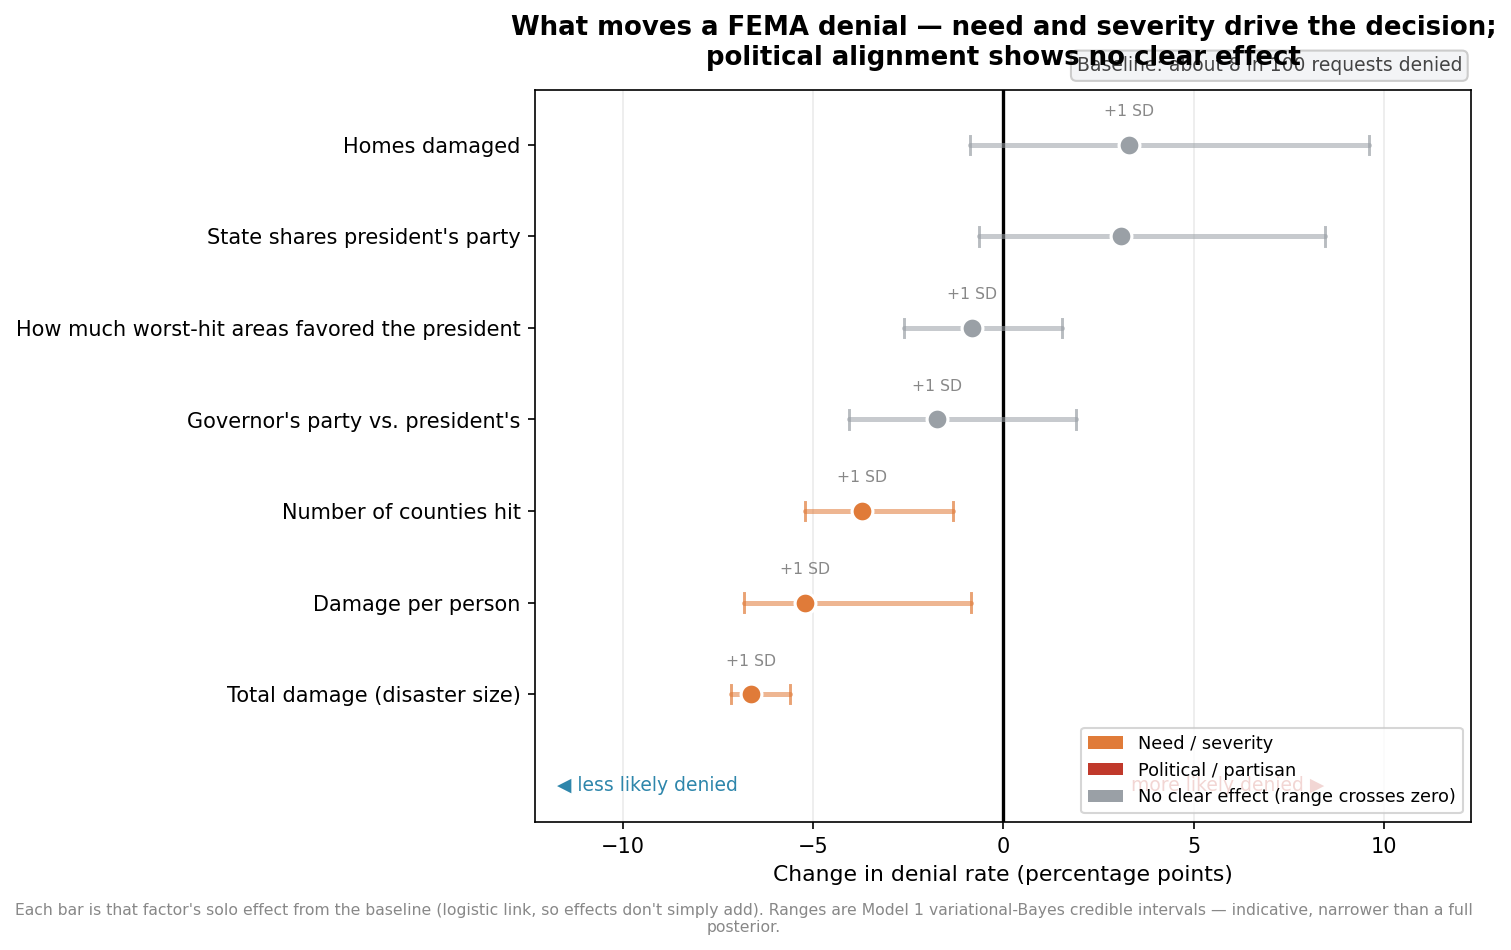
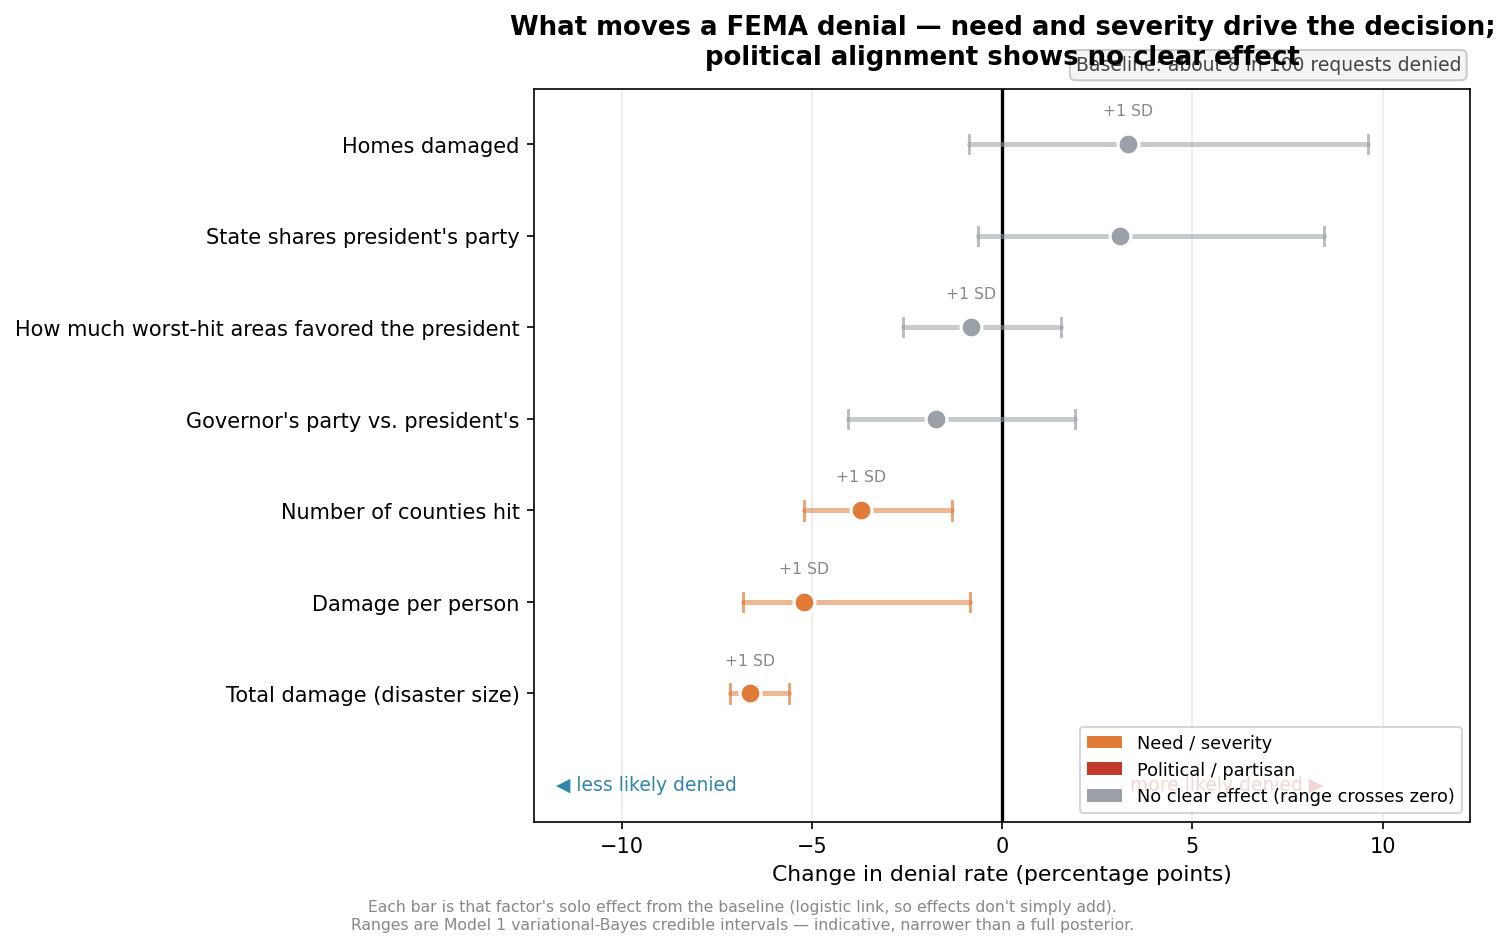
fix: correct governor_vs_president contrast label + harden empty-frame path
Final whole-branch review: governor_vs_president is a binary 0/1 flag, so its
bar is a 0->1 contrast, not +1 SD. Also make _build_m1_lay_effects return a
columned empty frame and guard plot_fig6 before sort/subplots.

diff --git a/scripts/plot_model_results.py b/scripts/plot_model_results.py
@@ -116,7 +116,7 @@ _M1_LAY_FACTORS = [
      "label": "State shares president's party", "contrast": "0→1",
      "category": "Political"},
     {"feature": "governor_vs_president",
-     "label": "Governor's party vs. president's", "contrast": "+1 SD",
+     "label": "Governor's party vs. president's", "contrast": "0→1",
      "category": "Political"},
     {"feature": "dmg_weighted_mean_pres_margin",
      "label": "How much worst-hit areas favored the president", "contrast": "+1 SD",
@@ -279,7 +279,11 @@ def _build_m1_lay_effects(vb_table):
         })
         labels.append(spec["label"])
 
-    effects_df = pd.DataFrame(rows, index=labels)
+    effects_df = pd.DataFrame(
+        rows, index=labels,
+        columns=["effect_pts", "range_low_pts", "range_high_pts",
+                 "unclear", "category", "contrast"],
+    )
     return effects_df, baseline_p
 
 
@@ -652,19 +656,16 @@ def plot_fig6_lay_effects(effects_df, baseline_p, out_dir):
     Returns:
         None. Saves fig6_lay_effects.png to out_dir.
     """
+    n = len(effects_df)
+    if n == 0:
+        print("  [fig6] no factors to plot; skipping fig6_lay_effects.png")
+        return
     # Sort ascending so the strongest "less likely denied" effects sit at the
     # bottom and the chart reads like a number line (negative left, positive
     # right).
     df = effects_df.sort_values("effect_pts", ascending=True)
-    n = len(df)
     y_pos = np.arange(n, dtype=float)
-
     fig, ax = plt.subplots(figsize=(10, max(4.5, n * 0.62 + 1.8)))
-
-    if n == 0:
-        print("  [fig6] no factors to plot; skipping fig6_lay_effects.png")
-        plt.close(fig)
-        return
 
     for y, (label, row) in zip(y_pos, df.iterrows()):
         colour = (_M1_LAY_UNCLEAR if row["unclear"]
@@ -720,6 +721,9 @@ def plot_fig6_lay_effects(effects_df, baseline_p, out_dir):
     ]
     ax.legend(handles=legend_handles, fontsize=8.5, loc="lower right")
 
+    # NOTE: this takeaway title encodes the CURRENT finding (political alignment
+    # shows no clear effect); it is not recomputed from effects_df. Revisit it if
+    # a future refit makes a political factor's effect clearly non-zero.
     ax.set_title(
         "What moves a FEMA denial — need and severity drive the decision;\n"
         "political alignment shows no clear effect",

diff --git a/tests/test_m1_lay_effects.py b/tests/test_m1_lay_effects.py
@@ -148,12 +148,18 @@ def test_const_intercept_fallback():
 
 
 def test_plot_fig6_empty_effects_does_not_crash(tmp_path):
-    """An empty effects frame is skipped without raising or writing a file."""
-    from scripts.plot_model_results import plot_fig6_lay_effects
-
-    empty = pd.DataFrame(
-        columns=["effect_pts", "range_low_pts", "range_high_pts",
-                 "unclear", "category", "contrast"]
+    """The real all-missing producer output is skipped without raising/writing."""
+    from scripts.plot_model_results import (
+        _build_m1_lay_effects,
+        plot_fig6_lay_effects,
     )
-    plot_fig6_lay_effects(empty, 0.08, str(tmp_path))
+
+    # Intercept-only table => every selected factor is skipped => empty frame.
+    table = pd.DataFrame(
+        [{"odds_ratio": 0.1 / 0.9, "ci_low": 0.1 / 0.9, "ci_high": 0.1 / 0.9}],
+        index=["Intercept"],
+    )
+    effects_df, baseline_p = _build_m1_lay_effects(table)
+    assert len(effects_df) == 0
+    plot_fig6_lay_effects(effects_df, baseline_p, str(tmp_path))
     assert not (tmp_path / "fig6_lay_effects.png").exists()
